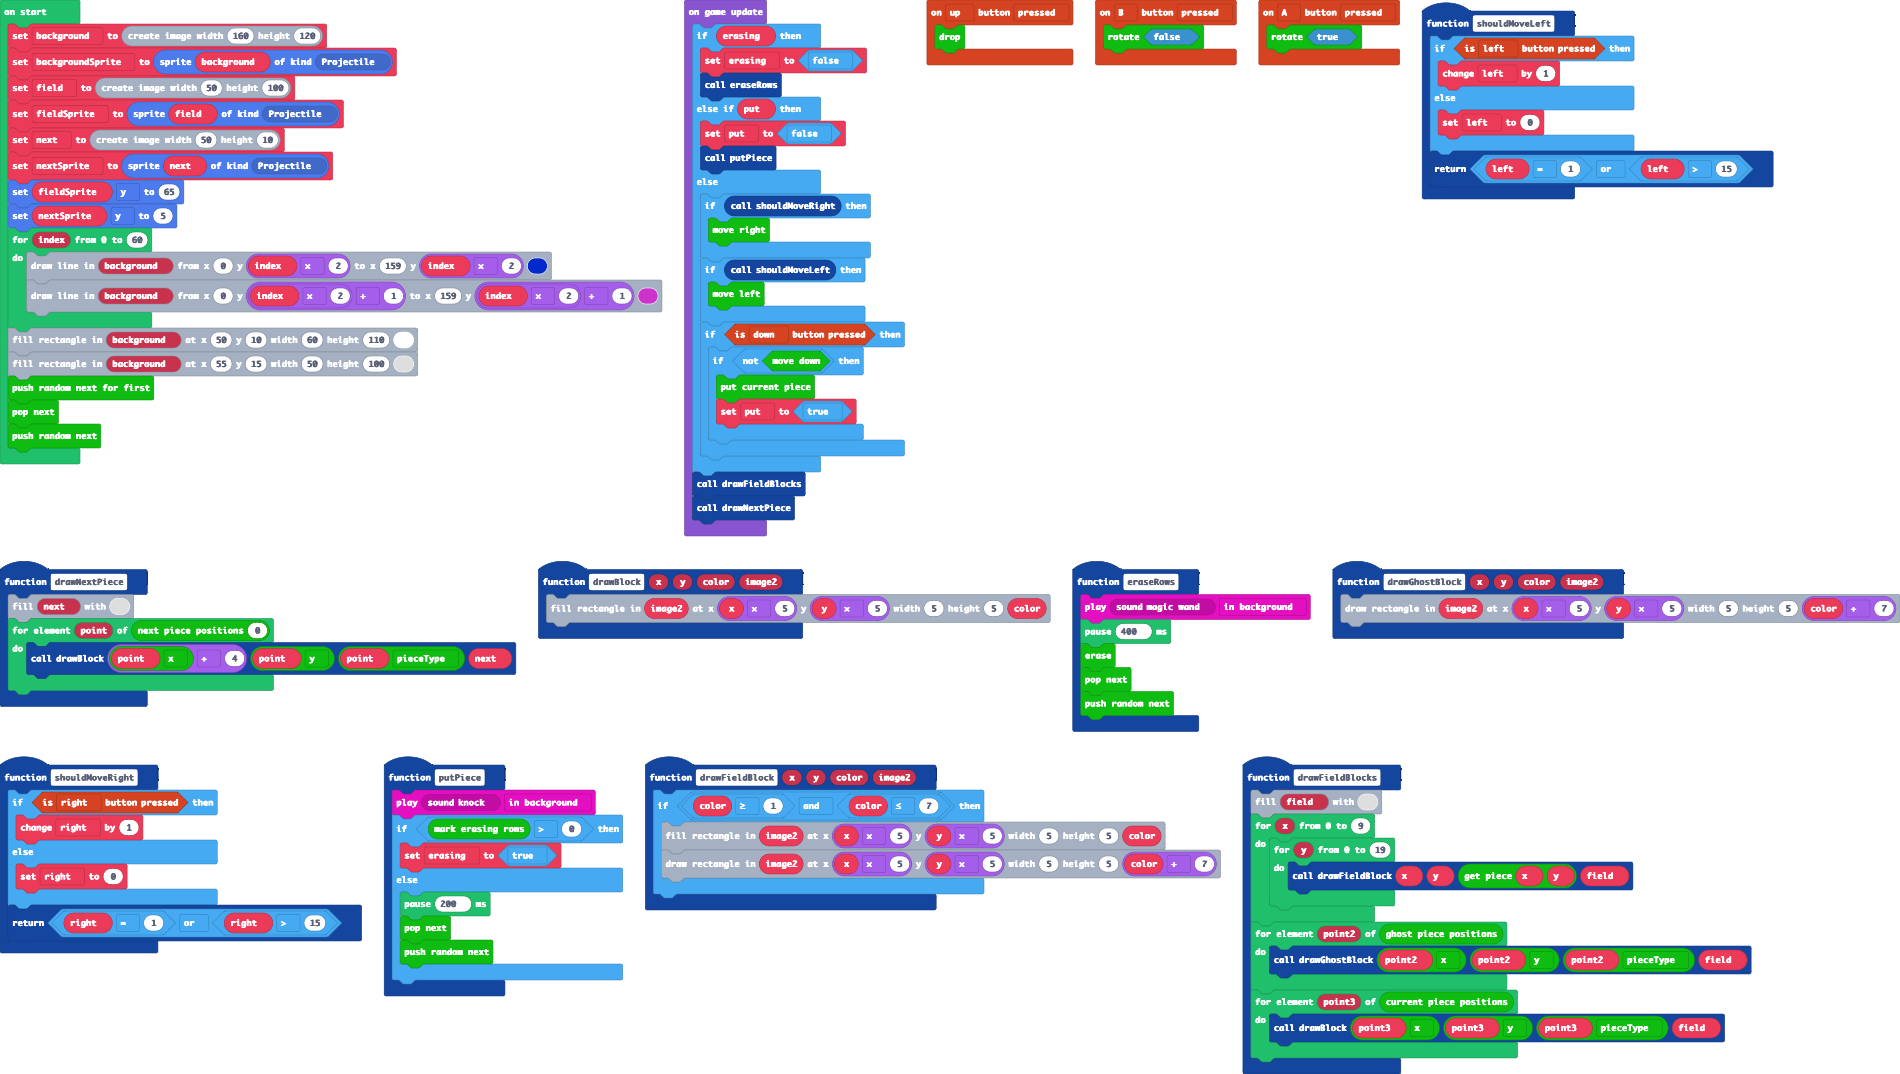
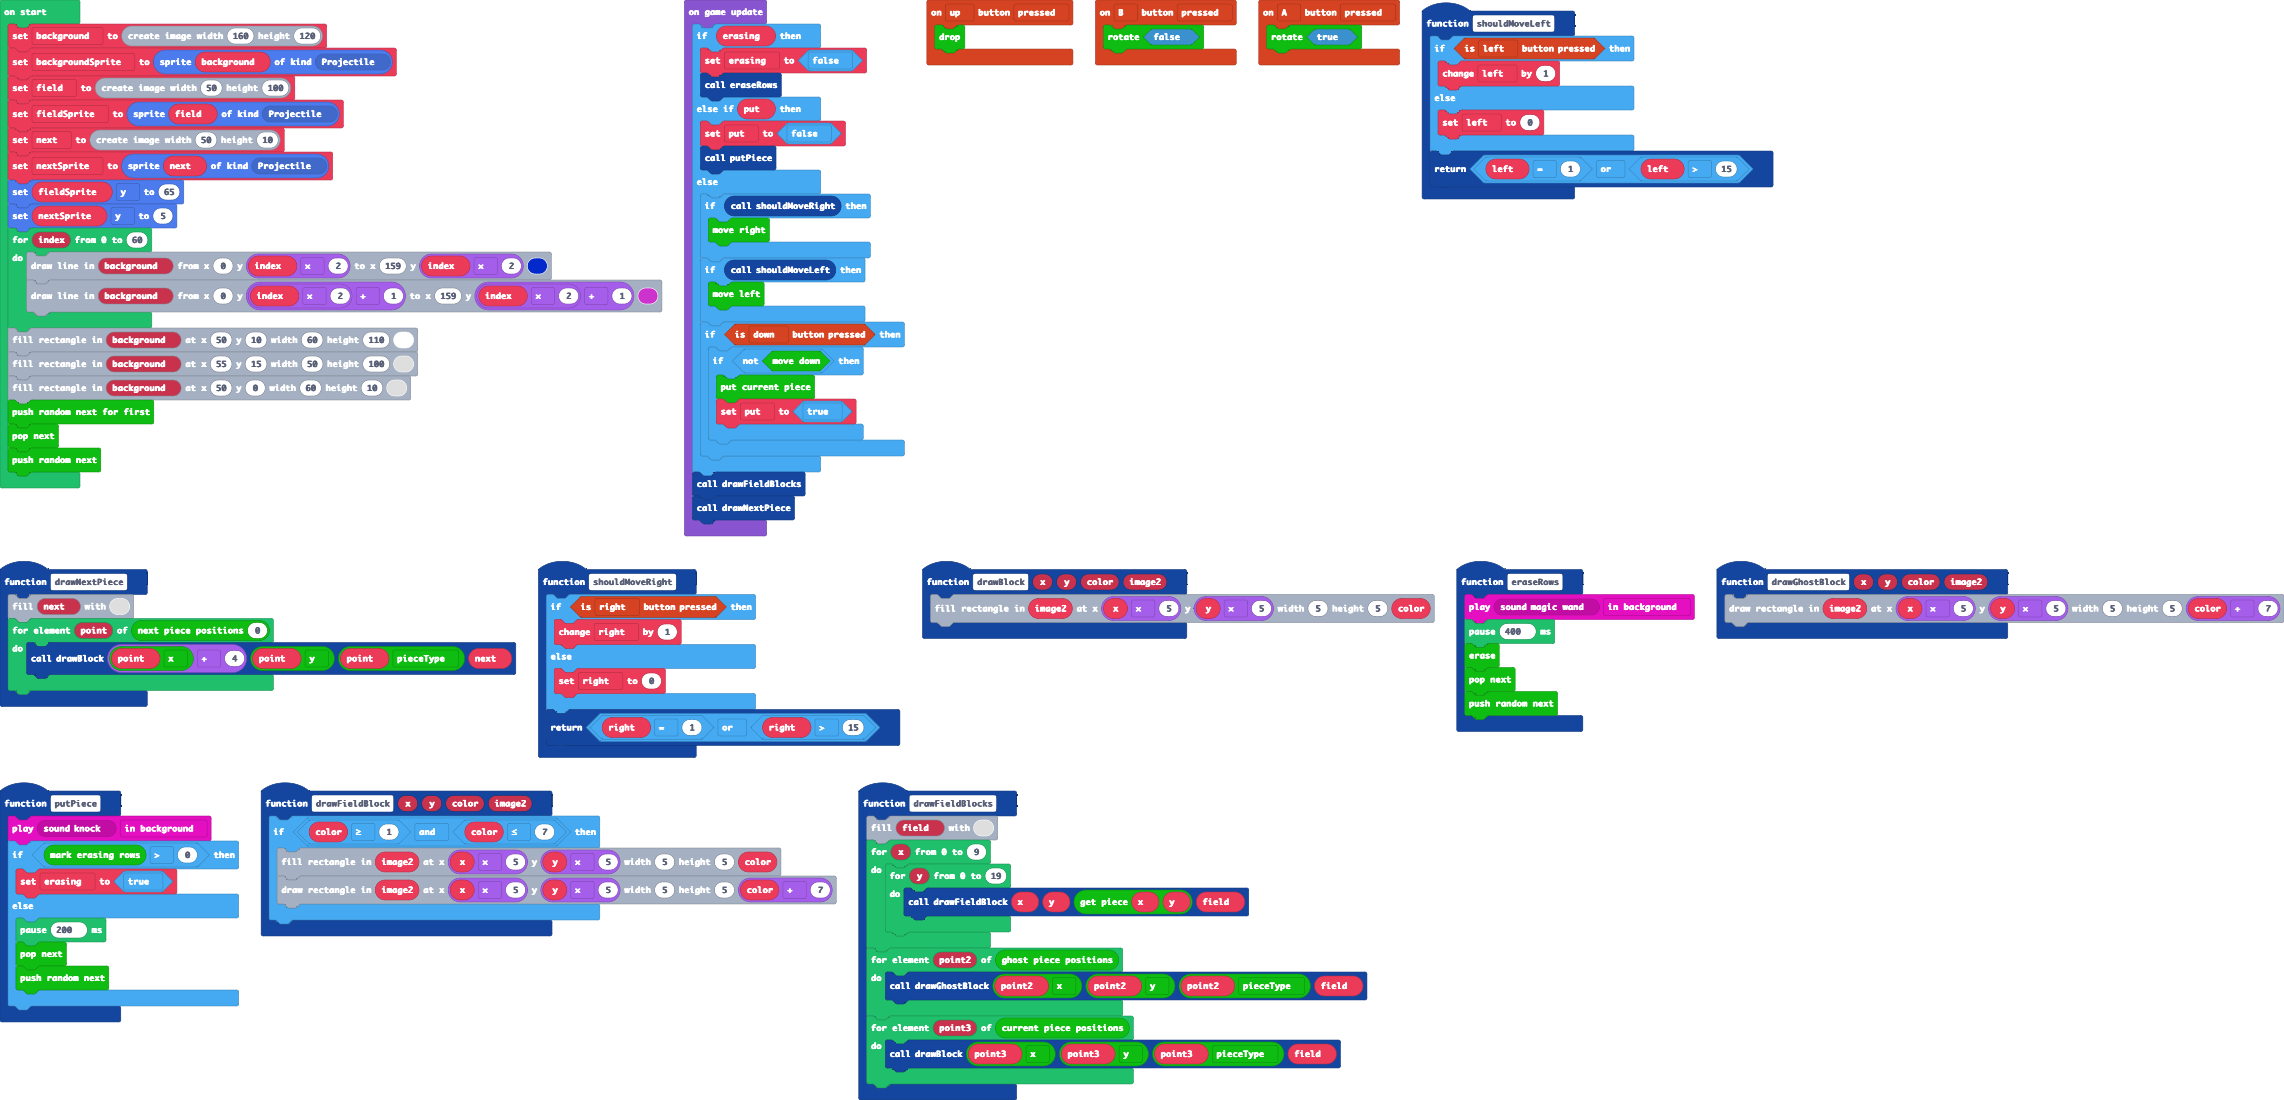
Change the background design

diff --git a/main.ts b/main.ts
@@ -92,6 +92,7 @@ for (let index = 0; index <= 60; index++) {
 }
 background.fillRect(50, 10, 60, 110, 15)
 background.fillRect(55, 15, 50, 100, 0)
+background.fillRect(50, 0, 60, 10, 0)
 TGM.pushRandomNextForFirst()
 TGM.popNext()
 TGM.pushRandomNext()
